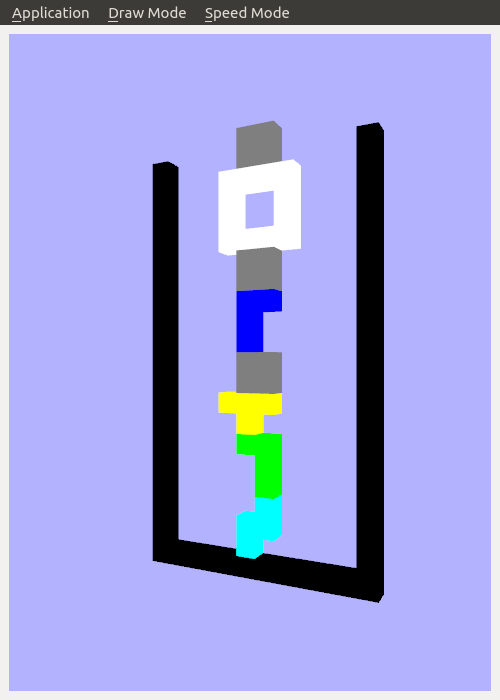
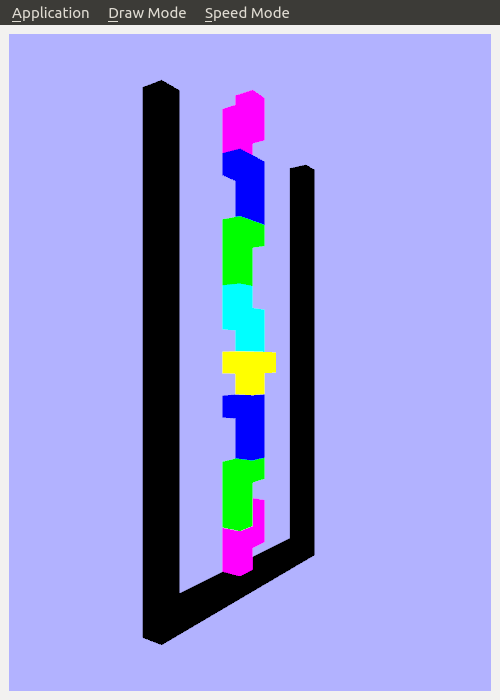
Update pictures and fix scaling maxmin

Changed region(s): [[0.27, 0.09, 0.78, 0.93]]

diff --git a/A1/src/Viewer.cpp b/A1/src/Viewer.cpp
@@ -55,7 +55,6 @@ QSize Viewer::sizeHint() const {
 void Viewer::initializeGL() {
     QGLFormat glFormat = QGLWidget::format();
     if (!glFormat.sampleBuffers()) {
-        std::cerr << "Could not enable sample buffers." << std::endl;
         return;
     }
 
@@ -223,39 +222,39 @@ bool Viewer::prepareColorsBuffer(){
         0.5f, 0.0f, 0.5f, 1.0f, // DPURP
         0.5f, 0.0f, 0.5f, 1.0f,
         0.5f, 0.0f, 0.5f, 1.0f,
-        1.0f, 0.0f, 1.0f, 1.0f, // PURPLE
-        1.0f, 0.0f, 1.0f, 1.0f,
-        1.0f, 0.0f, 1.0f, 1.0f,
+        1.0f, 1.0f, 0.0f, 1.0f, // PURPLE
+        1.0f, 1.0f, 0.0f, 1.0f,
+        1.0f, 1.0f, 0.0f, 1.0f,
         1.0f, 1.0f, 1.0f, 1.0f, // WHITE
         1.0f, 1.0f, 1.0f, 1.0f,
         1.0f, 1.0f, 1.0f, 1.0f,
-        1.0f, 0.0f, 1.0f, 1.0f, // PURPLE
-        1.0f, 0.0f, 1.0f, 1.0f,
-        1.0f, 0.0f, 1.0f, 1.0f,
+        1.0f, 1.0f, 0.0f, 1.0f, // PURPLE
+        1.0f, 1.0f, 0.0f, 1.0f,
+        1.0f, 1.0f, 0.0f, 1.0f,
         0.5f, 0.0f, 0.5f, 1.0f, // DPURP
         0.5f, 0.0f, 0.5f, 1.0f,
         0.5f, 0.0f, 0.5f, 1.0f,
         1.0f, 1.0f, 1.0f, 1.0f, // WHITE
         1.0f, 1.0f, 1.0f, 1.0f,
         1.0f, 1.0f, 1.0f, 1.0f,
-        1.0f, 0.0f, 0.0f, 1.0f, // RED
-        1.0f, 0.0f, 0.0f, 1.0f,
-        1.0f, 0.0f, 0.0f, 1.0f,
-        0.0f, 1.0f, 0.0f, 1.0f, // GREEN
-        0.0f, 1.0f, 0.0f, 1.0f,
-        0.0f, 1.0f, 0.0f, 1.0f,
-        0.0f, 1.0f, 0.0f, 1.0f, // GREEN
-        0.0f, 1.0f, 0.0f, 1.0f,
-        0.0f, 1.0f, 0.0f, 1.0f,
+        0.80f, 0.0f, 0.0f, 1.0f, // RED
+        0.80f, 0.0f, 0.0f, 1.0f,
+        0.80f, 0.0f, 0.0f, 1.0f,
+        0.0f, 0.60f, 0.0f, 1.0f, // GREEN
+        0.0f, 0.60f, 0.0f, 1.0f,
+        0.0f, 0.60f, 0.0f, 1.0f,
+        0.0f, 0.60f, 0.0f, 1.0f, // GREEN
+        0.0f, 0.60f, 0.0f, 1.0f,
+        0.0f, 0.60f, 0.0f, 1.0f,
         0.230f, 0.255f, 0.89f, 1.0f, // BLUE
         0.230f, 0.255f, 0.89f, 1.0f,
         0.230f, 0.255f, 0.89f, 1.0f,
         0.230f, 0.255f, 0.89f, 1.0f, // BLUE
         0.230f, 0.255f, 0.89f, 1.0f,
         0.230f, 0.255f, 0.89f, 1.0f,
-        1.0f, 0.0f, 0.0f, 1.0f, // RED
-        1.0f, 0.0f, 0.0f, 1.0f,
-        1.0f, 0.0f, 0.0f, 1.0f
+        0.80f, 0.0f, 0.0f, 1.0f, // RED
+        0.80f, 0.0f, 0.0f, 1.0f,
+        0.80f, 0.0f, 0.0f, 1.0f
     };
     mColorBufferObject.create();
     mColorBufferObject.setUsagePattern( QGLBuffer::StaticDraw );
@@ -379,8 +378,6 @@ void Viewer::mousePressEvent ( QMouseEvent * event ) {
 
     QVector3D temp = QVector3D(1,99,0);
 
-    std::cerr << "Stub: button " << temp.y() << " pressed\n";
-
     mOrigin_x = mAbsOrigin_x = event->x();
 
     mApplyGravity = false;
@@ -400,10 +397,8 @@ void Viewer::mouseReleaseEvent ( QMouseEvent * event ) {
 }
 
 void Viewer::mouseMoveEvent ( QMouseEvent * event ) {
-    std::cerr << abs(mCurrentlyScaled) << std::endl;
     mXDiff = mPrevX - event->x();
     mPrevX = event->x();
-
 
     double dx = event->x() - mOrigin_x;
     mOrigin_x = event->x();
@@ -411,16 +406,15 @@ void Viewer::mouseMoveEvent ( QMouseEvent * event ) {
      if(event->modifiers() & Qt::ShiftModifier &&
         (event->buttons() & Qt::LeftButton ||
          event->buttons() & Qt::RightButton || 
-         event->buttons() & Qt::MidButton) && 
-        abs(mCurrentlyScaled) <= 50
+         event->buttons() & Qt::MidButton) 
         ){
-       if(dx > 0){
+       if(dx > 0 && mCurrentlyScaled <= 8){
             translateWorld(0,0,-20);
             scaleWorld(1.01, 1.01, 1.01);
             translateWorld(0,0,20);
             mCurrentlyScaled += 1;
         }
-        else{
+        else if(dx < 0 && mCurrentlyScaled >= -50){
             translateWorld(0,0,-20);
             scaleWorld(0.99,0.99,0.99);
             translateWorld(0,0,20);
@@ -497,7 +491,6 @@ void Viewer::mouseMoveEvent ( QMouseEvent * event ) {
 
 void Viewer::gravity(){
     if(mApplyGravity){
-        std::cerr << "SPIN" << mGravityAmount <<  std::endl;
         switch(mGravity){
             case -3:
                 translateWorld(0,0,-20);
